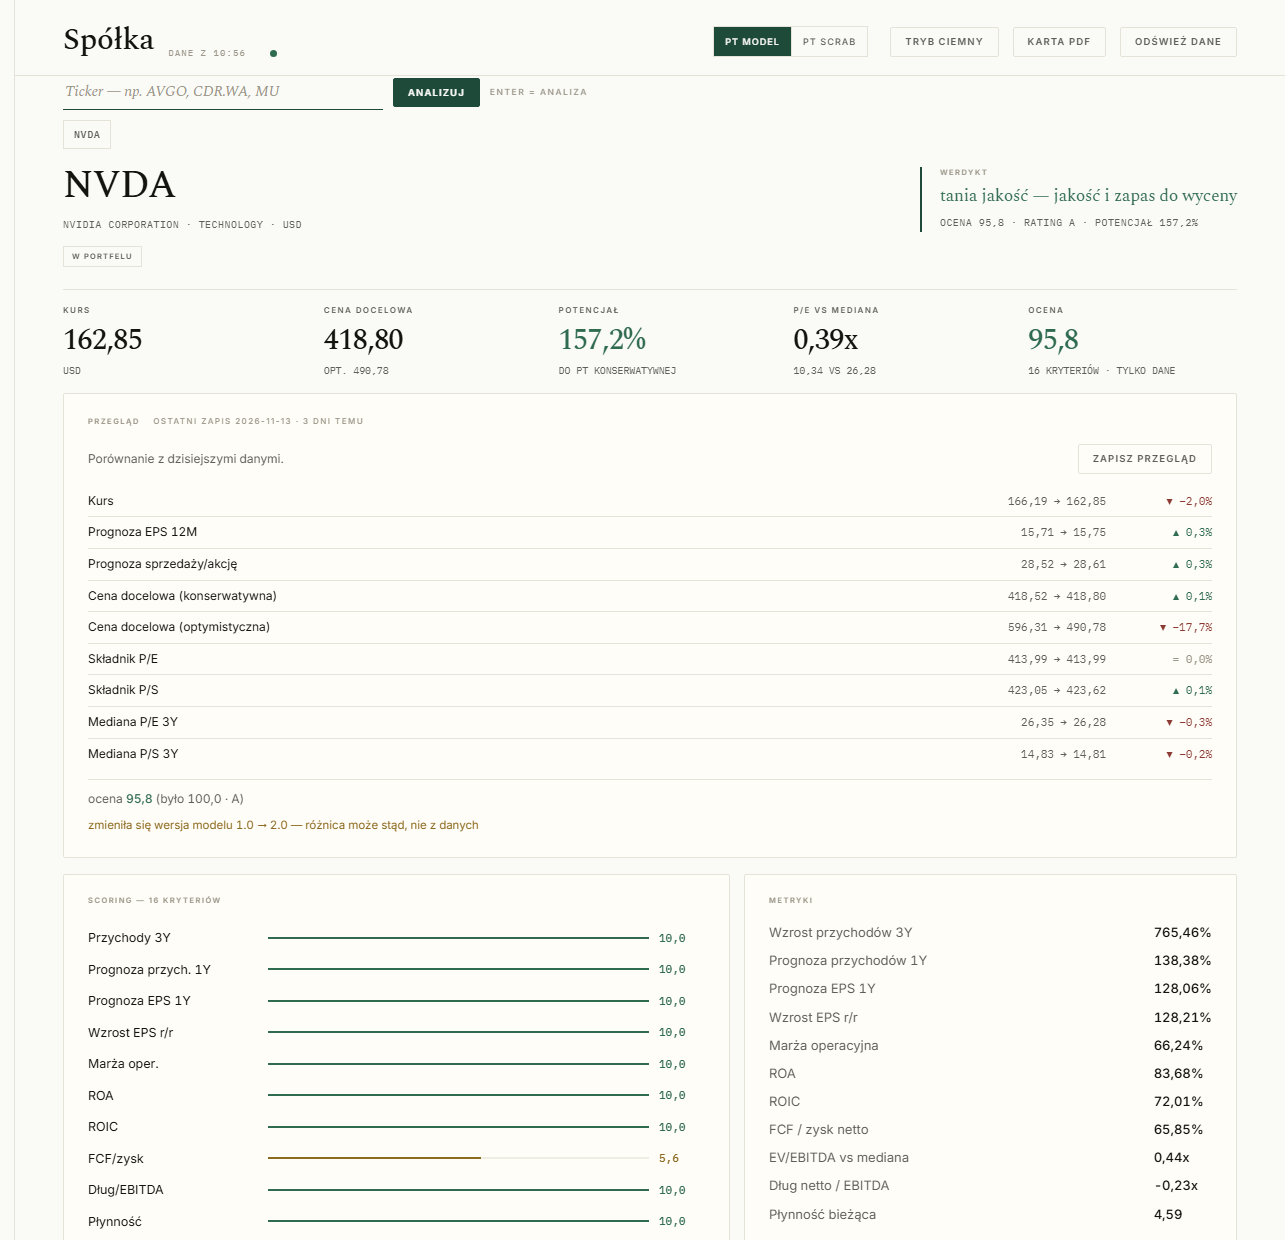
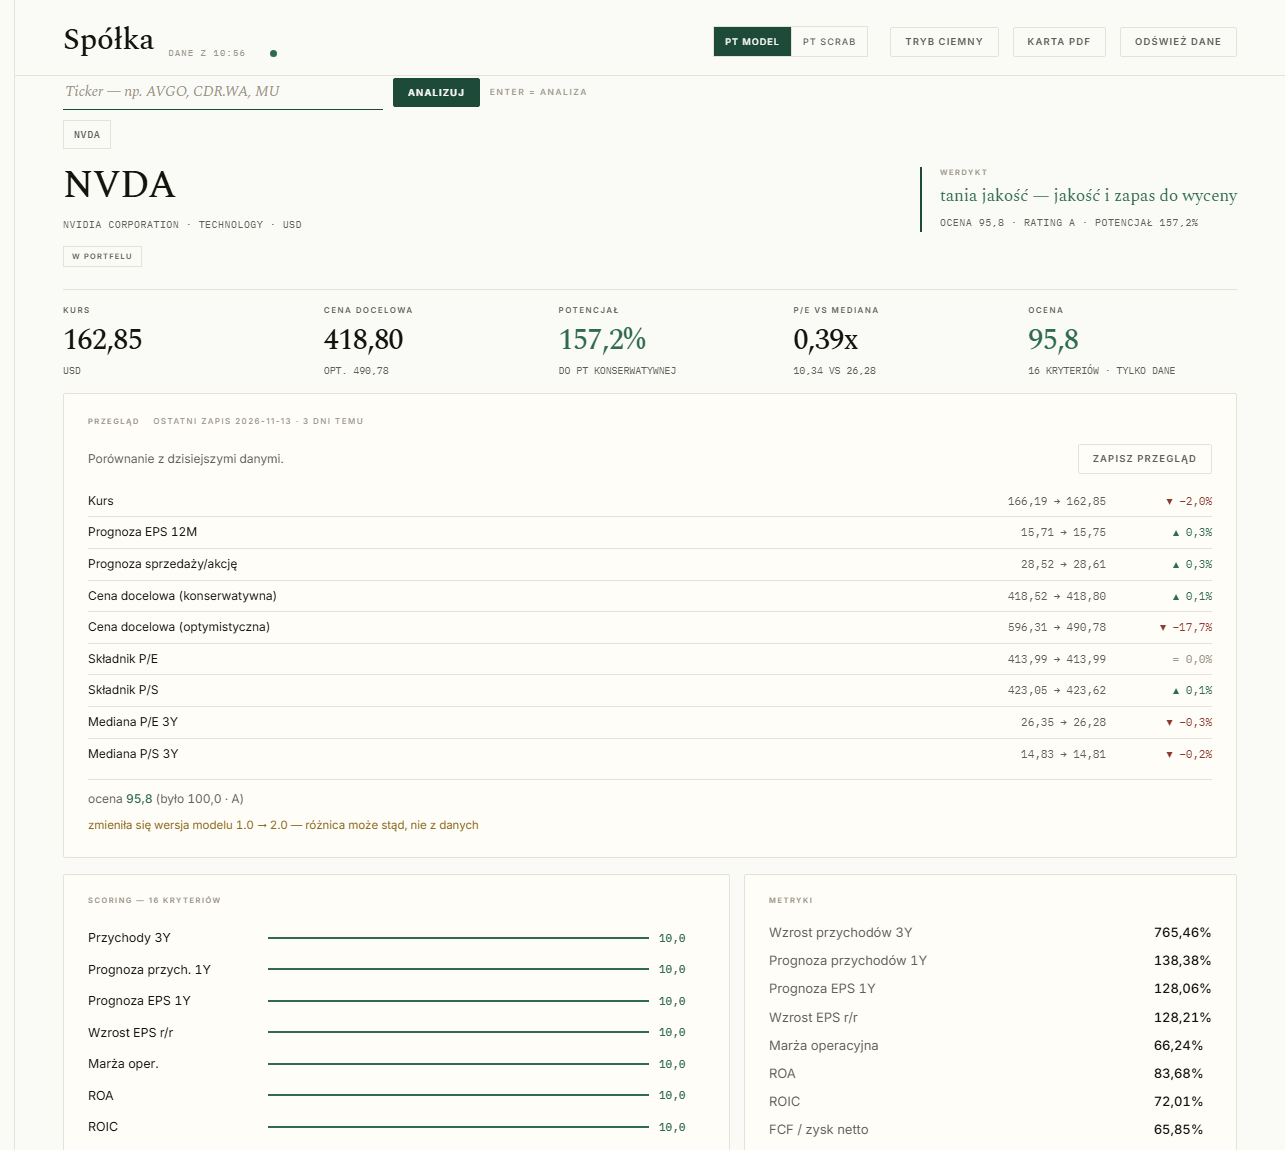
Social preview: version B copy, one sentence per line

diff --git a/assets/social.html b/assets/social.html
@@ -10,7 +10,7 @@ body{width:1280px;height:640px;background:#FAFAF6;color:#14140F;font-family:Inte
   display:grid;grid-template-columns:600px 1fr;align-items:center;padding:52px 56px 52px 64px;gap:44px;
   border-top:9px solid #1E4A3A}
 .kicker{font-family:Plex,monospace;font-size:12px;letter-spacing:.2em;color:#2F6B4F;margin-bottom:16px}
-h1{font-family:Spectral,serif;font-weight:600;font-size:36px;line-height:1.16;letter-spacing:-.012em}
+h1{font-family:Spectral,serif;font-weight:600;font-size:38px;line-height:1.18;letter-spacing:-.012em}
 h1 em{font-style:normal;color:#1E4A3A}
 p{margin-top:16px;font-size:14px;line-height:1.55;color:#5F5F58;max-width:515px}
 .meta{margin-top:26px;font-family:Plex,monospace;font-size:11px;letter-spacing:.12em;color:#A39E90}
@@ -21,7 +21,7 @@ p{margin-top:16px;font-size:14px;line-height:1.55;color:#5F5F58;max-width:515px}
 </style></head><body>
 <div>
   <div class="kicker">LOKALNY TERMINAL ANALITYCZNY</div>
-  <h1>Wycena spółki na jej własnych <em>mnożnikach</em>, ocena na 16 kryteriów, wynik portfela bez upiększeń.</h1>
+  <h1>Wycena na własnych <em>mnożnikach</em>.<br>Ocena na 16 kryteriów.<br>Wynik portfela co do złotówki.</h1>
   <p>Aplikacja desktopowa w Pythonie: dane FactSet przez API Scraba, wycena P/E, P/S i EV/EBITDA,
      dziennik FIFO z kursem z dnia transakcji, TWR/MWR, ryzyko i raporty PDF.</p>
   <div class="meta">PYTHON · FLASK · WEBVIEW2 · 28 ENDPOINTÓW</div>
